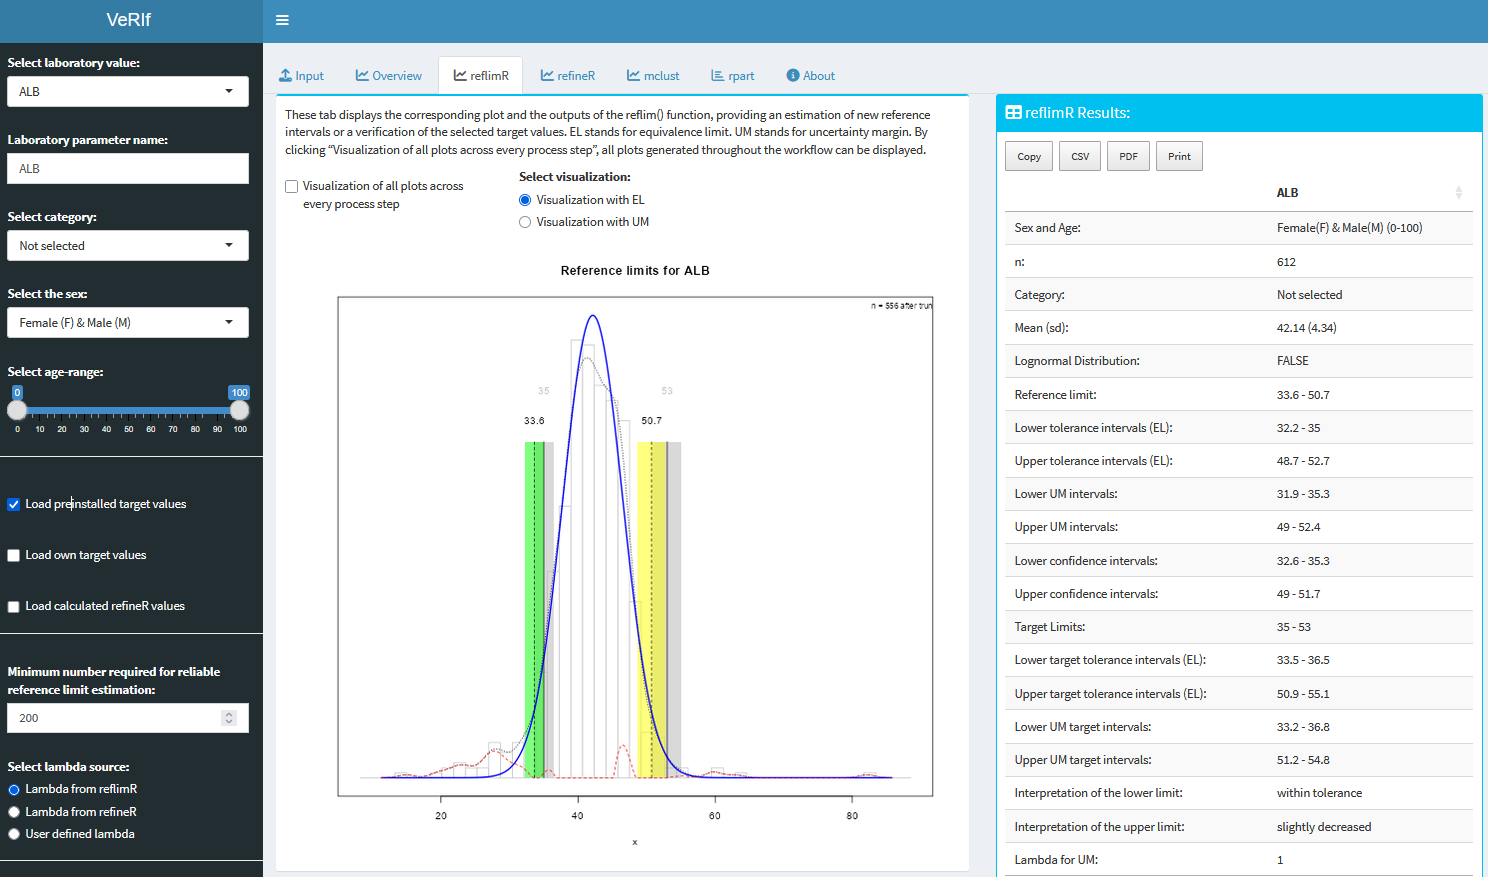
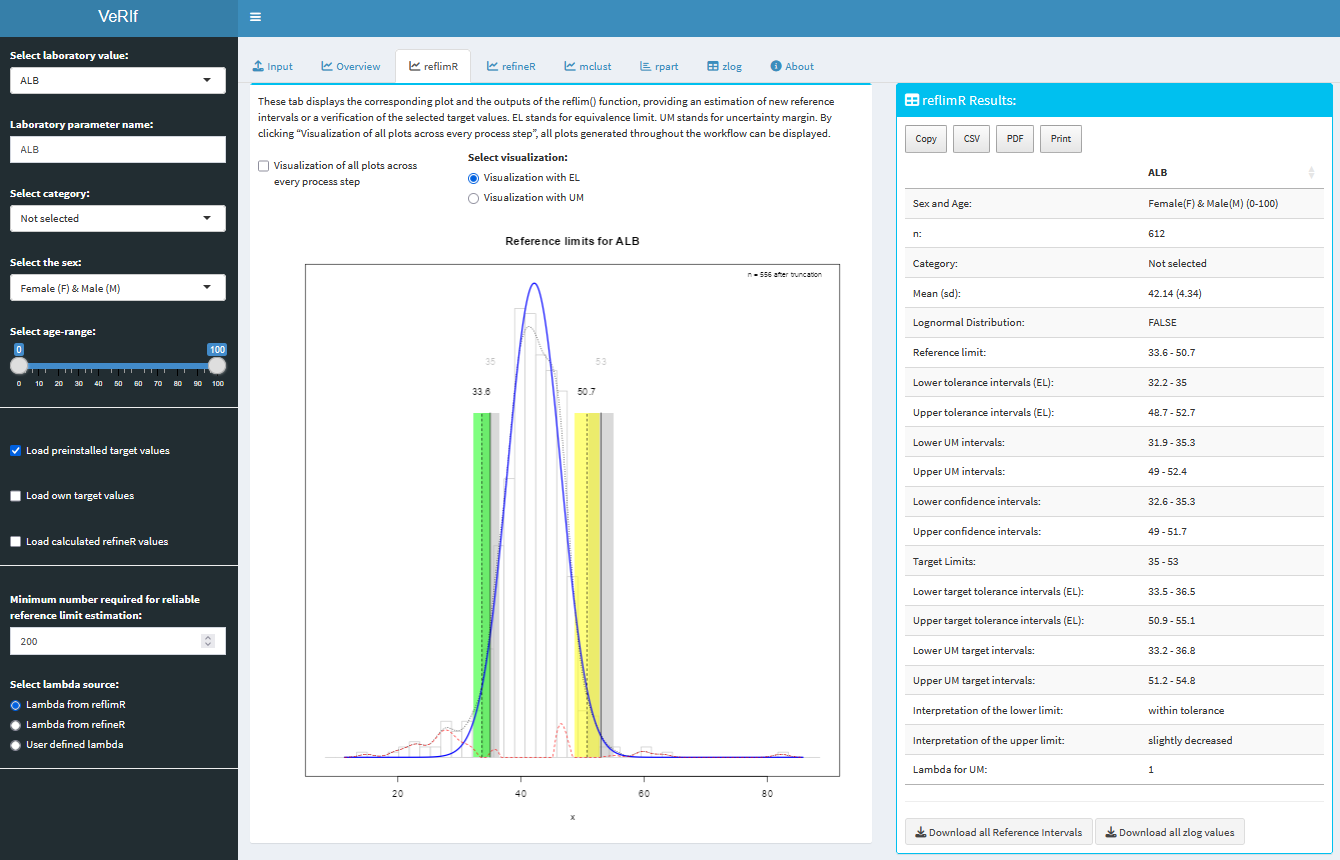
Version 1.0.2

diff --git a/README.md b/README.md
@@ -17,8 +17,8 @@ if("shiny" %in% rownames(installed.packages())){
 runGitHub("VeRIf", "SandraKla")
 ```
 
-**Method 2**:
-Download the Zip-File from this Shiny App. Unzip the file and set your working direction to the path of the folder. 
+**Method 2:**
+Download the ZIP file for this Shiny App. Unzip the file and set your working directory to the path of the folder.
 The package [shiny](https://cran.r-project.org/web/packages/shiny/index.html) (≥ 1.7.1) must be installed before using the Shiny App:
 
 ```bash
@@ -48,17 +48,25 @@ These columns should be used for new data:
 * **Value**:      Column name is the analyte name, values are the laboratory measures
 
 Starting with the fourth column, enter the laboratory value; the other three columns can be in any order. The data from *livertests* serves as a [template](https://github.com/SandraKla/VeRIf/tree/main/www/template.csv). To load new data, the data should be in CSV format with values separated by semicolons (;), and decimal numbers should use a comma (,) as the decimal separator. The first row should contain column headers.
-Alternatively, the data can be loaded into the editable table using the copy-and-paste function or with .xlsx (see [template](https://github.com/SandraKla/reflimR_Shiny/tree/main/www/template.xlsx)).
+Alternatively, the data can be loaded into the editable table using the copy-and-paste function or with XLSX (see [template](https://github.com/SandraKla/VeRIf/blob/main/www/template.xlsx)).
 
 ## Usage
 
-On the left side, the sidebar allows you to select the laboratory parameter, category, age and gender group. In the “Target Values” section, you can load target values from *targetvalues*, load reference intervals estimated with *refineR*, or manually enter custom values.
-In the “Upload” tab, new datasets can be uploaded. The main tab, “reflimR”, displays the corresponding plot and the outputs of the ```reflim()``` function, providing an estimation of new reference intervals or a verification of the selected target values. 
-By clicking “Visualization of all plots across every process step”, all plots generated throughout the workflow can be displayed.
+The left sidebar controls the laboratory parameter, category, sex and age range used throughout the analysis. It also allows you to use the preinstalled target values, enter custom target values, or reuse the reference interval estimated in the *refineR* tab.
 
-If, during the verification with *reflimR* and its target values or own target values, a yellow or red bar appears, a follow-up analysis using *refineR* is recommended in the "refineR" tab. The resulting reference intervals from *refineR* can be used as new target values and re-verified with *reflimR*.
-If all indicators turn green, this suggests that the manufacturer’s target values are likely incorrect. If one or more indicators remain yellow or red, the data are considered too challenging for indirect methods. This assumption can be further evaluated in the “mclust” tab using a Gaussian mixture model (*mclust*). 
-In the “rpart” tab, an additional stratification by age groups and gender is performed using recursive partitioning (*rpart*), enabling a more detailed assessment of subgroup-specific differences.
+The tabs provide the following functions:
+
+* **Input**: Upload a CSV or XLSX dataset, map the age and sex columns and the female/male values, or paste data into the editable table.
+* **Overview**: Inspect the relationship between age, sex and the selected laboratory parameter.
+* **reflimR**: Estimate a reference interval or verify selected target values with the `reflim()` function. The plot can display equivalence limits (EL) or uncertainty margins (UM).
+* **refineR**: Perform a follow-up indirect reference interval estimation. The resulting limits can be selected in the sidebar and re-verified with *reflimR*.
+* **mclust**: Examine the data with a Gaussian mixture model. The number of clusters can be selected automatically or entered manually.
+* **rpart**: Explore additional stratification by age and sex using a regression tree.
+* **zlog**: Display the dataset together with its calculated reference interval and a zlog value for every result.
+
+If a yellow or red bar appears while verifying target values with *reflimR*, a follow-up analysis with *refineR* is recommended. If the newly estimated limits produce green indicators when re-verified, this suggests that the original target values may be unsuitable. If one or more indicators remain yellow or red, the data may be too challenging for indirect methods; the *mclust* tab can help investigate this further.
+
+The results panel contains the detailed *reflimR* and *refineR* output. Tables can be copied, exported as CSV or PDF, or printed. **Download all Reference Intervals** creates a ZIP archive with results for all laboratory parameters, while **Download all zlog values** exports the corresponding values as CSV.
 
 ## Contact
 
